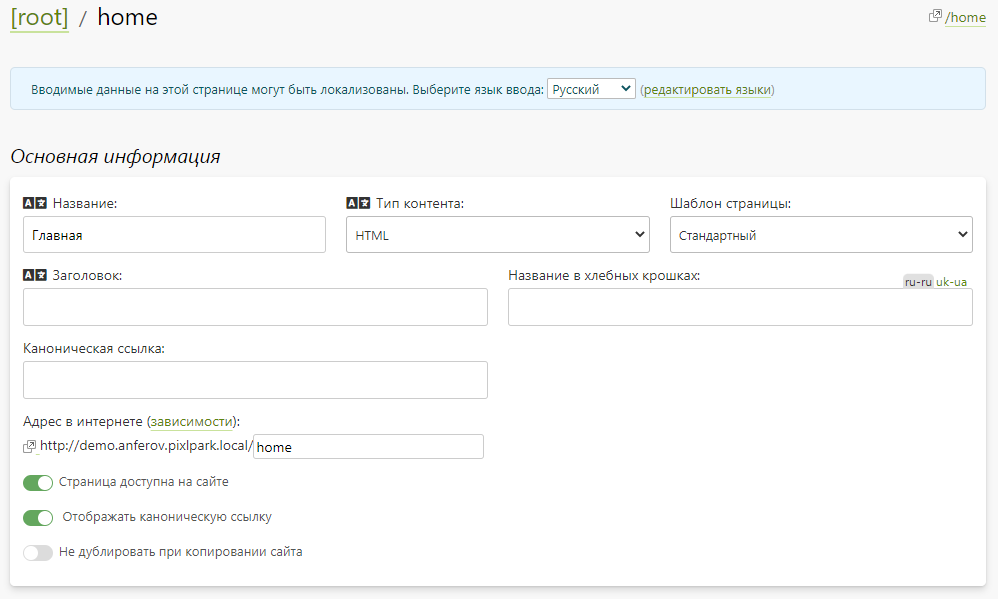
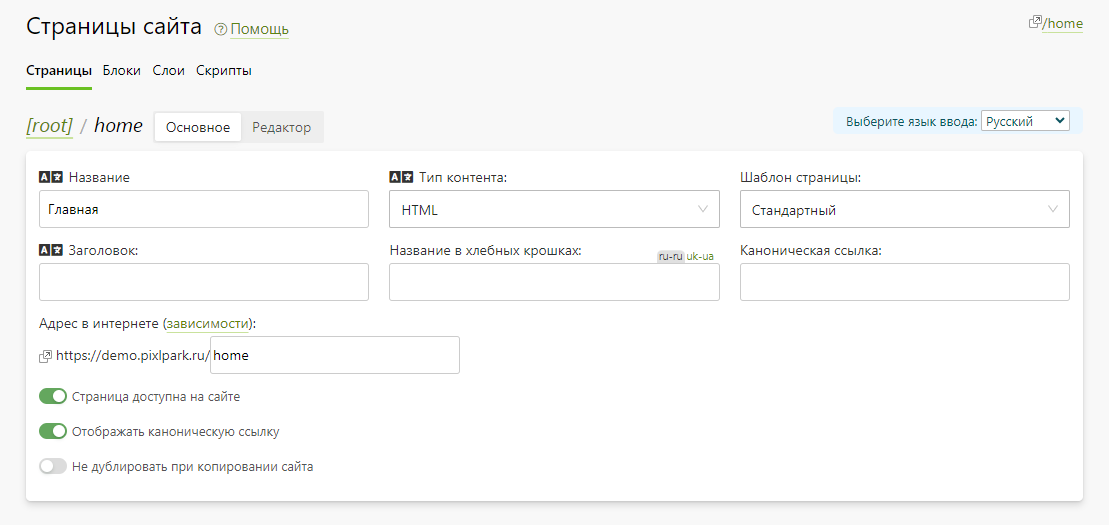
карточка страницы

diff --git a/docs/cms/pages.md b/docs/cms/pages.md
@@ -1,14 +1,28 @@
 # Страницы сайта
+
+## Список страниц
+* 
+* В данном разделе представлен список всех страниц сайта, сгруппированных в папки по уникальным адресам.
+* Также в этом разделе можно:
+    + Добавить новую страницу.
+    + Перейти в карточку любой страницы.
+    + Включить или выключить любую страницу.
+    + Дублировать выделенные страницы.
+    + Удалить выделенные страницы.
+* ![](../_media/cms/pages.png)
+
 ## Карточка страницы
 * __Содержание__
     + [Основная информация](/cms/pages?id=Основная-информация)
     + [Хлебные крошки](/cms/pages?id=Хлебные-крошки)
-    + [Содержимое страницы](/cms/pages?id=Содержимое-страницы)
     + [Метаинформация](/cms/pages?id=Метаинформация)
+    + [Редактор страницы](/cms/pages?id=Редактор-страницы) 
 
 ### Основная информация
-* Страница - это страница сайта, доступная по уникальному адресу. Ниже перечислены основные параметры страницы.
+* Страница - это страница сайта, доступная по уникальному адресу.
+![](../_media/cms/page-general.png)
 
+* Ниже перечислены основные параметры страницы.
 * __Название__ - название страницы в панели управления, которое в том числе используется в качестве заголовка `H1`, если его нет в содержимом страницы и не задано поле "Заголовок".
 * __Тип контента__ - тип содержимого страницы, который указывается в ответе сервера в заголовке "content-type".
     + __HTML__ - рекомендуем оставлять данный тип.
@@ -19,37 +33,30 @@
     + __Стандартный__ - страница со всеми секциями.
     + __Без шапки и подвала__ - страница без двух обязательных секций "Шапка" и "Подвал".
     + __Пустой__ - страница с одной обязательной секцией "Контент" и без загрузки стандартных скриптов и стилей.
-* __Заголовок__ - заголовок, который используется в качестве `H1`, если его нет в содержимом страницы.
+* __Заголовок__ - заголовок, который используется в качестве тега `H1`, если его нет в содержимом страницы.
 * __Название в хлебных крошках__ - название страницы, которое выводиться в динамически формируемых хлебных крошках согласно настройкам раздела CMS.
 * __Каноническая ссылка__ - ссылка, размещаемая в теге каночиности, которая в свою очередь размещается в секции `<head>` страницы сайта (`<link rel="canonical" href="https://example.com/sample-page/" />`).
 * __Адрес в интернете__ - уникальный адрес страницы на сайте. Через "зависимости" можно посмотреть список используемых на странице блоков.
-* __Страница доступна на сайте__ - включить доступность страницы для посетителей и поисковых роботов.
-* __Отображать каноническую ссылку__ - размещать каноническую ссылку в заголовке страницы.
-* __Не дублировать при копировании сайта__ - выключить копирование данной страницы при копировании сайта.
-![](../_media/cms/page-general.png)
+
+
+* К странице могут быть применены следущие настройки:
+* + __Страница доступна на сайте__ - включить доступность страницы для посетителей и поисковых роботов.
+* + __Отображать каноническую ссылку__ - размещать каноническую ссылку в заголовке страницы.
+* + __Не дублировать при копировании сайта__ - выключить копирование данной страницы при копировании сайта.
+
 
 ### Хлебные крошки
 * В данном разделе можно переопределить навигационные цепочки для текущей страницы. На странице они выводятся через константу `[$breadcrumbs$]`.
 * Для использования стандартной навигации вы можете оставить данный раздел незаполненным.
 ![](../_media/cms/cms02.png)
 
-### Содержимое страницы
-* В данной разделе задается содержимое секций, из которых формируется страница сайта. По умолчанию содержимое задается в виде HTML-разметки, которая также может содержать стили и скрипты.
-![](../_media/cms/cms03.png)
-
 ### Метаинформация
-* В данном разделе задается информация для поисковых систем (метаинформация) - заголовок, описание и ключевые слова.
+* В данном разделе задается метаинформация страницы для поисковых систем (метаинформация) - заголовок, описание и ключевые слова.
 ![](../_media/cms/cms04.png)
 
-## Список страниц
-* В данном разделе представлен список всех страниц сайта, сгруппированных в папки по уникальным адресам.
-* Также в этом разделе можно:
-    + Добавить новую страницу.
-    + Перейти в карточку любой страницы.
-    + Включить или выключить любую страницу.
-    + Дублировать выделенные страницы.
-    + Удалить выделенные страницы.
-* ![](../_media/cms/pages.png)
+### Редактор страницы
+* В данной разделе задается содержимое секций, из которых формируется страница сайта. По умолчанию содержимое задается в виде HTML-разметки, которая также может содержать стили и скрипты.
+![](../_media/cms/cms03.png)
 
 ## Карточка блока
 * Блок - это произвольная HTML-разметка (+ стили + скрипты), которая может быть многократно использована на различных страницах сайта. Использование блоков позволяет минимизировать разметку страниц, делая ее более читабельной и лаконичной. Ниже перечислены основные параметры блока.
